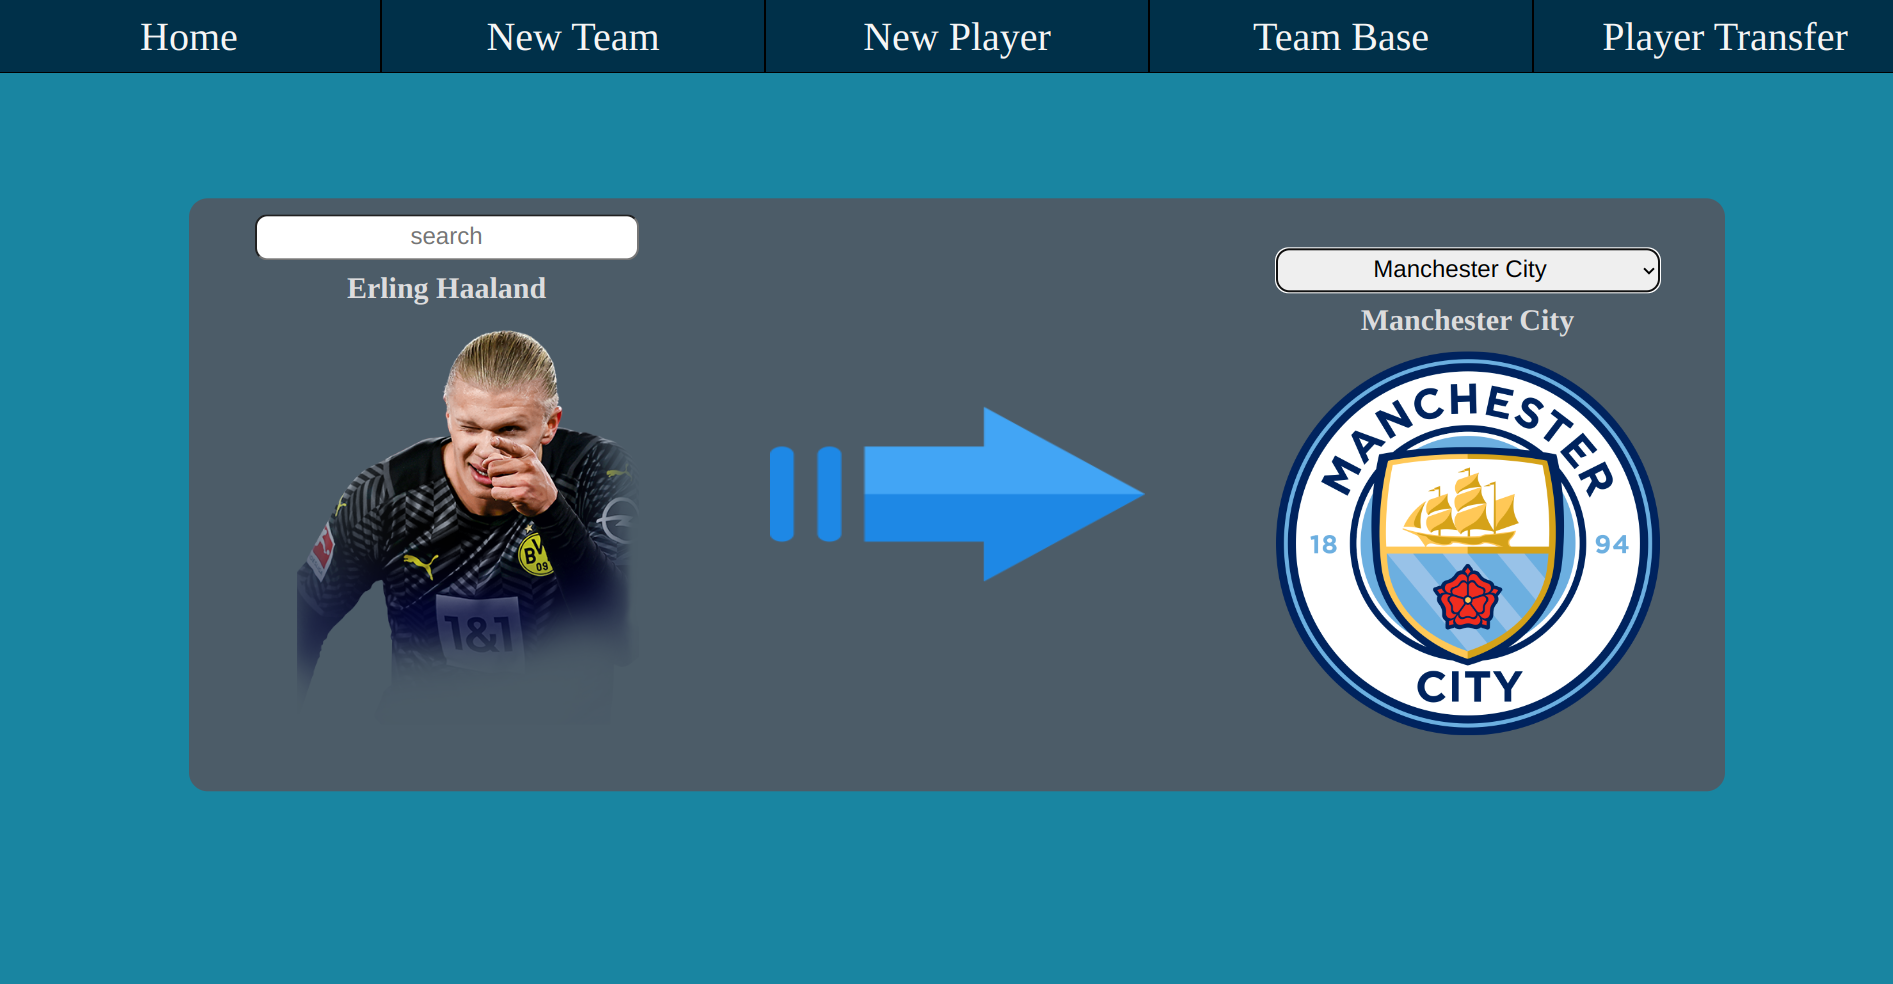
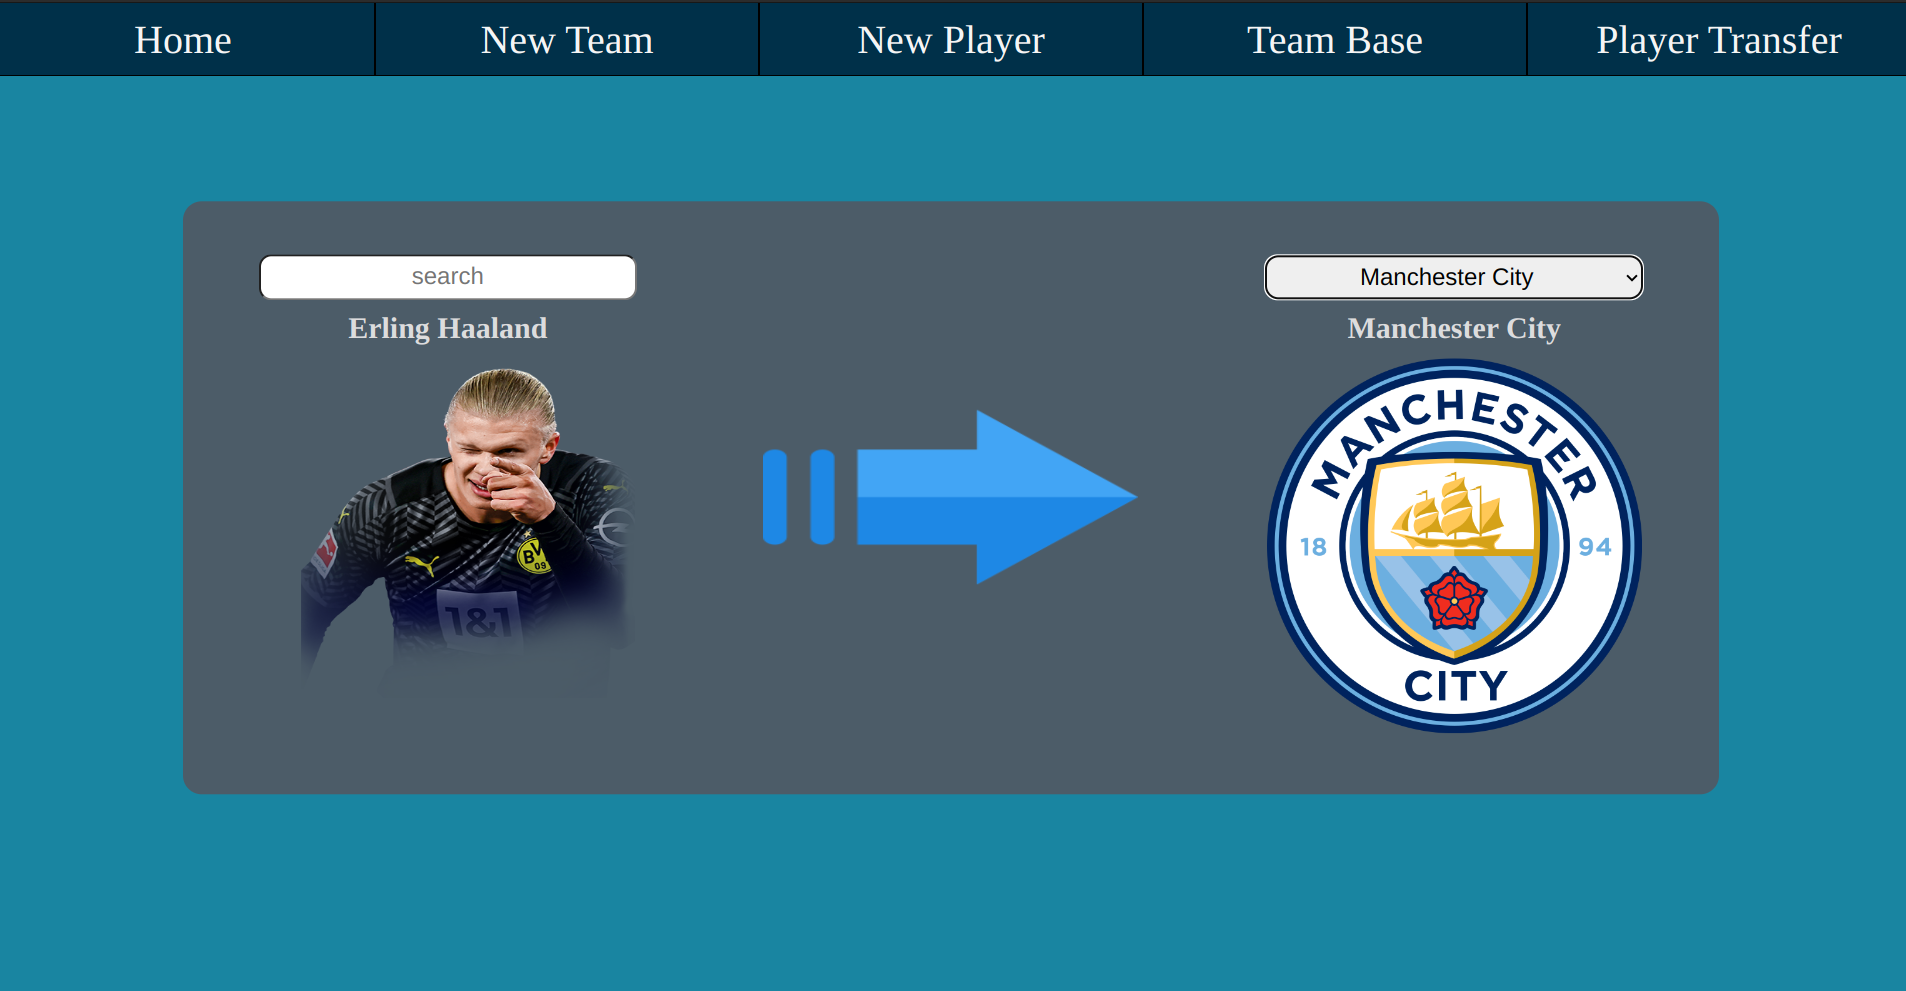
images are updated

diff --git a/public/style/player-transfer-style.css b/public/style/player-transfer-style.css
@@ -16,11 +16,12 @@ section {
   flex-direction: row;
   justify-content: space-around;
   align-items: center;
+  padding: 10px;
 }
 
 section img {
-  width: 100%;
-  height: 100%;
+  width: 300px;
+  height: 300px;
   border-radius: 20px;
 }
 
